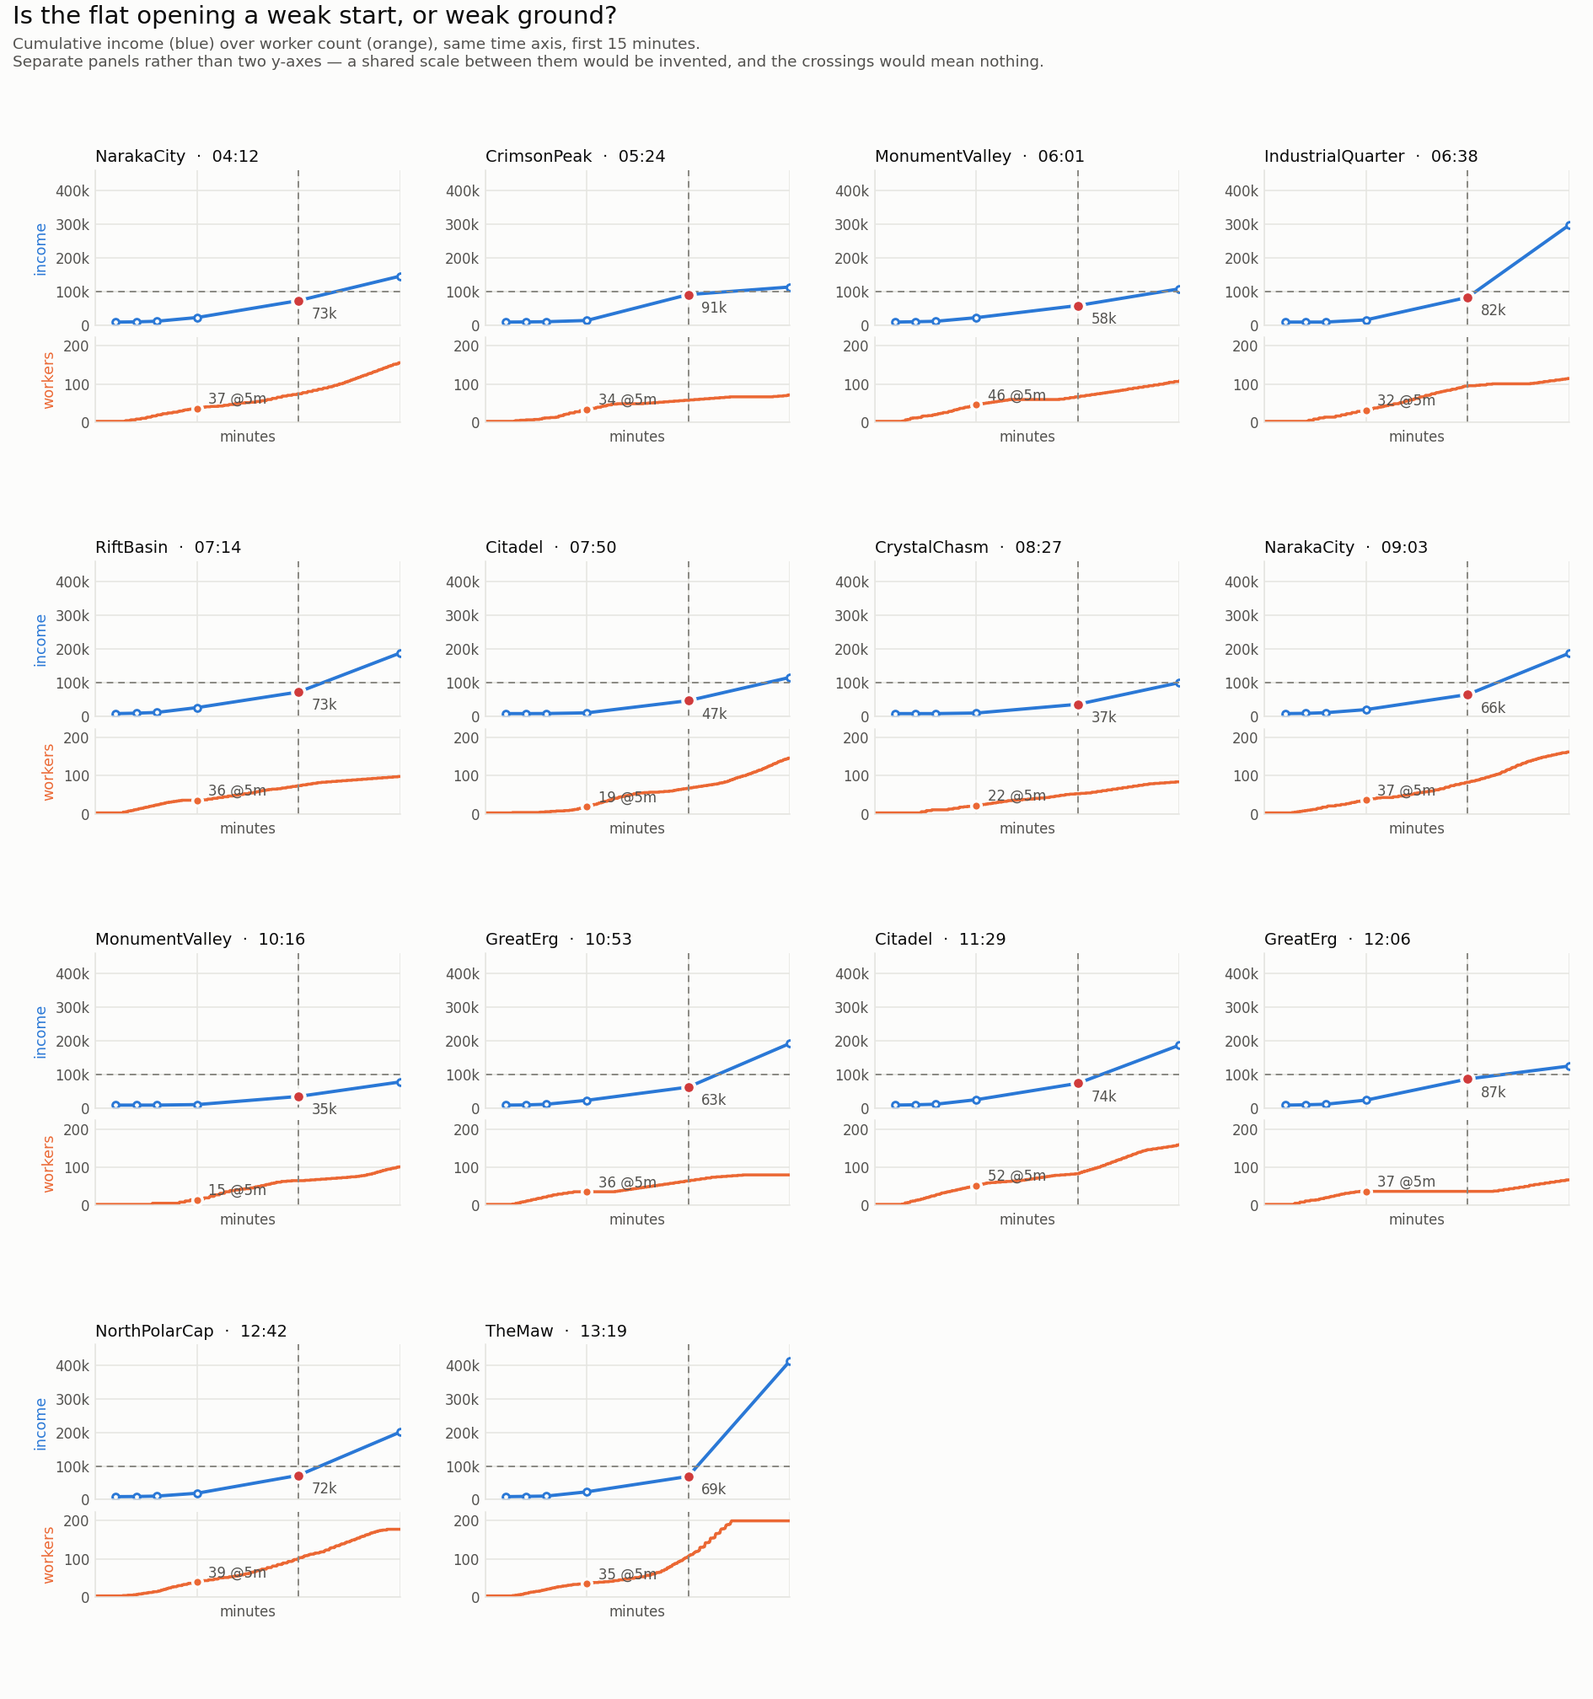
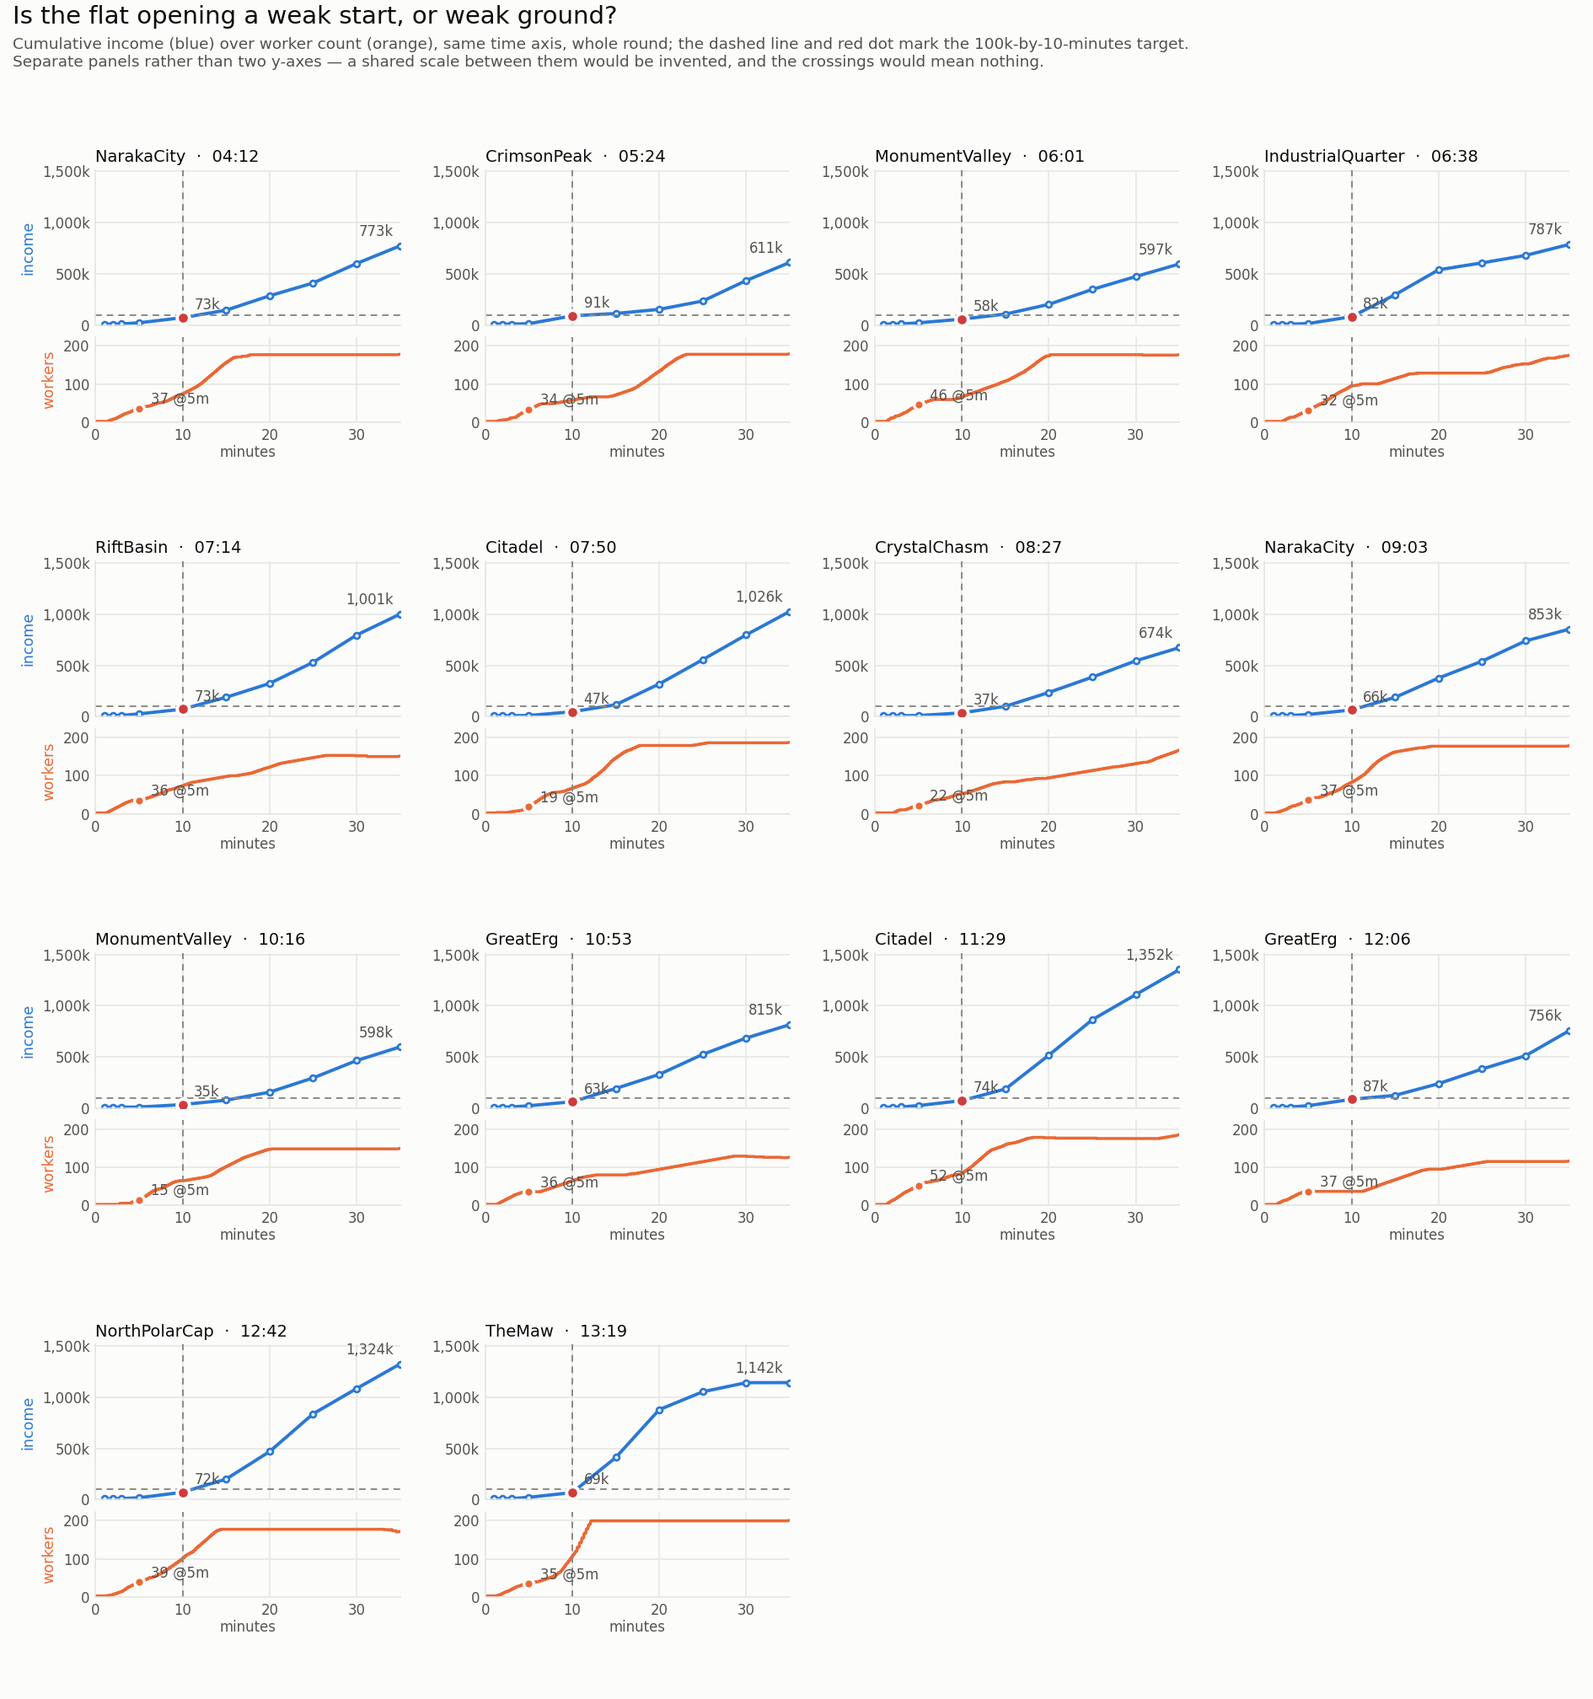
v0.20.1: income per worker decides whether to add workers or ground
DrMuck on IndustrialQuarter: "steep income rate from 10min to 20min, but
then the slope of the income rate was lower to the end of the game. I wonder
why." The per-second data answers it, and the answer changes what the
trajectory from v0.20.0 is allowed to do.

    min 10   1.56 income per worker per second
    min 15   2.92
    min 20   3.48   <- peak, 129 workers, 449/s
    min 25   3.12
    min 33   2.24        168 workers, 377/s

Workers GREW by forty across that decline and income still fell. It was
never a worker shortage: patches drained, so the same shrimps walked further
for every load, and the bank ran away from 26k to 190k because the economy
had nothing useful left to buy with them.

WORKERS ARE NOT THE OBJECTIVE — income is, and a worker only converts into
income while there is short-cycle ground for it to work. Yield shows both
ways that link breaks (drained patches, crowded patches) long before the
worker count shows anything, so it now decides WHICH lever the trajectory
pulls:

  - yield steady or rising  -> a worker still earns, so producers answer the
                               deficit, exactly as in v0.20.0
  - yield falling >20% off  -> the shortfall is ground, not producers. The
    its round peak            producer push is SUSPENDED and expansion widens
                              to at least twelve sites ahead instead.

That second branch also fixes a failure mode I built into v0.20.0 the day
[…]

diff --git a/Si_RTS_AI/Planning/WorkerPlan.cs b/Si_RTS_AI/Planning/WorkerPlan.cs
@@ -70,6 +70,48 @@ namespace Si_RTS_AI.Planning
         internal static bool  BehindSchedule;
         internal static float Duty = 0.5f;
 
+        // ---- Yield: what a worker is actually worth right now ---------------
+        //
+        // WORKERS ARE NOT THE OBJECTIVE. Income is, and a worker only converts
+        // into income while there is short-cycle ground for it to work. Two
+        // things break that link and they pull in opposite directions from a
+        // worker count: patches drain, so the same shrimps walk further for
+        // each load; and workers added past a patch's useful density crowd it.
+        //
+        // Measured on IndustrialQuarter 2026-08-05, income per worker per
+        // second:
+        //
+        //     min 10   1.56      min 20   3.48   <- peak
+        //     min 15   2.92      min 25   3.12
+        //                        min 33   2.24
+        //
+        // Workers went 129 -> 168 across that decline and income still FELL,
+        // from 449/s to 377/s. The economy was telling us its ground was
+        // draining ten minutes before the worker count noticed, and nothing
+        // was listening.
+        //
+        // So yield is the control signal that decides WHICH lever to pull:
+        // rising or steady, more workers pay and producers are the answer;
+        // falling, more workers are being poured into ground that cannot feed
+        // them and the answer is more ground. This also guards the trajectory
+        // above from its own failure mode — chasing a worker count onto
+        // crowded patches is exactly how you lower income while hitting target.
+        internal static float Yield, YieldPeak;
+        internal static bool  YieldFalling;
+
+        /// <summary>How far below its best yield may drift before the ground is
+        /// judged to be draining. Wide enough not to trip on the noise of a
+        /// depot finishing or a group relocating.</summary>
+        const float YIELD_DECAY_TRIGGER = 0.20f;
+
+        /// <summary>Before this the sample is meaningless — a handful of
+        /// starter shrimps on the richest patch on the map produce a yield the
+        /// rest of the round can never match, and every later reading would
+        /// look like decay against it.</summary>
+        const float YIELD_WARMUP_S = 300f;
+        const int   YIELD_MIN_WORKERS = 25;
+
+        static float _lastCum, _lastCumAt;
         static float _lastLogAt;
 
         internal static void ResetForNewRound()
@@ -77,6 +119,9 @@ namespace Si_RTS_AI.Planning
             Have = Target = ProducersNeeded = 0;
             BehindSchedule = false;
             Duty = 0.5f;
+            Yield = YieldPeak = 0f;
+            YieldFalling = false;
+            _lastCum = _lastCumAt = 0f;
             _lastLogAt = 0f;
         }
 
@@ -104,14 +149,38 @@ namespace Si_RTS_AI.Planning
         /// <summary>
         /// Called once per plan cycle with the live counts.
         /// </summary>
-        internal static void Update(float roundS, int workers, int producers)
+        internal static void Update(float roundS, int workers, int producers, int cumulativeIncome)
         {
             Have = workers;
             Target = TargetAt(roundS);
             BehindSchedule = Have < Target;
 
+            // Income over the plan interval, per worker. Derived from the
+            // cumulative total rather than the round average, which is far too
+            // slow to show a decline.
+            float now = Time.time;
+            if (_lastCumAt > 0f && now - _lastCumAt >= 1f && workers > 0)
+            {
+                float rate = (cumulativeIncome - _lastCum) / (now - _lastCumAt);
+                float sample = rate / workers;
+                if (sample >= 0f)
+                    Yield = Yield <= 0f ? sample : Yield * 0.8f + sample * 0.2f;
+            }
+            if (now - _lastCumAt >= 1f) { _lastCum = cumulativeIncome; _lastCumAt = now; }
+
+            if (roundS >= YIELD_WARMUP_S && Have >= YIELD_MIN_WORKERS)
+            {
+                if (Yield > YieldPeak) YieldPeak = Yield;
+                YieldFalling = YieldPeak > 0f && Yield < YieldPeak * (1f - YIELD_DECAY_TRIGGER);
+            }
+
             int deficit = Mathf.Max(0, Target - Have);
-            if (deficit <= 0)
+            // MORE WORKERS ONLY WHEN A WORKER STILL EARNS.
+            //
+            // Behind the curve AND yield falling means the shortfall is ground,
+            // not producers — adding shrimps there buys crowding. Expansion
+            // picks the deficit up instead; see the sites-ahead floor.
+            if (deficit <= 0 || YieldFalling)
             {
                 ProducersNeeded = 0;
             }
@@ -137,7 +206,9 @@ namespace Si_RTS_AI.Planning
                 MelonLogger.Msg($"[WORKERS] t={roundS:F0}s have={Have} target={Target} " +
                                 $"({(BehindSchedule ? "behind" : "on track")}) duty={Duty:F2} " +
                                 $"producers={producers} wants={ProducersNeeded} " +
-                                $"(reference {TargetAtTenMin} by 10min)");
+                                $"yield={Yield:F2}/peak {YieldPeak:F2}" +
+                                (YieldFalling ? " FALLING - take ground, not workers" : "") +
+                                $" (reference {TargetAtTenMin} by 10min)");
             }
         }
     }

diff --git a/eco_sim/plot_overnight_ramp.py b/eco_sim/plot_overnight_ramp.py
@@ -29,7 +29,11 @@ SINCE = sys.argv[1] if len(sys.argv) > 1 else "2026-08-04T20"
 SURFACE, INK, INK_2, INK_MUTED = "#fcfcfb", "#0b0b0b", "#52514e", "#8a8983"
 INCOME, WORKERS = "#2a78d6", "#eb6834"      # categorical slots 1 and 2
 GOOD, CRITICAL, GRID = "#0ca30c", "#d03b3b", "#e6e5e1"
-TARGET_T, TARGET_V, ZOOM_MIN = 600, 100_000, 15
+TARGET_T, TARGET_V = 600, 100_000
+# Full round. The benchmark checkpoints stop at 1800s, so the tail of the income
+# curve is drawn from the round's final cumulative total at elapsedS — which is
+# what makes the post-10-minute tilt visible at all.
+ZOOM_MIN = 35
 
 
 def stamp(name):
@@ -70,7 +74,8 @@ for b in bench:
     t0 = float(rows[0]["t_sec"])
     wt = [(float(r["t_sec"]) - t0) / 60 for r in rows]
     wv = [int(r["shrimps"]) for r in rows]
-    matched.append(dict(map=b["map"], ts=b["ts"], cps=b["checkpoints"], wt=wt, wv=wv))
+    matched.append(dict(map=b["map"], ts=b["ts"], cps=b["checkpoints"], wt=wt, wv=wv,
+                        endS=b["elapsedS"], endV=b["cumulIncome"]))
 
 if not matched:
     raise SystemExit("no rounds matched a cashflow CSV")
@@ -83,8 +88,7 @@ fig = plt.figure(figsize=(13.5, 3.6 * pair_rows), facecolor=SURFACE)
 outer = GridSpec(pair_rows, cols, figure=fig, hspace=0.55, wspace=0.28,
                  top=0.90, bottom=0.06, left=0.06, right=0.985)
 
-ymax_i = max(max(v for k, v in r["cps"].items() if int(k) <= ZOOM_MIN * 60)
-             for r in matched) / 1000
+ymax_i = max(max(list(r["cps"].values()) + [r["endV"]]) for r in matched) / 1000
 ymax_w = max(max(w for t, w in zip(r["wt"], r["wv"]) if t <= ZOOM_MIN) for r in matched)
 
 
@@ -100,11 +104,12 @@ def style(ax, last_row):
         ax.spines[s].set_visible(False)
     for s in ("left", "bottom"):
         ax.spines[s].set_color(GRID)
-    ax.tick_params(colors=INK_2, labelsize=8.5, length=0)
     ax.set_xlim(0, ZOOM_MIN)
-    ax.set_xticks([0, 5, 10, 15])
-    if not last_row:
-        ax.set_xticklabels([])
+    ax.set_xticks([0, 10, 20, 30])
+    # The two panels of a round SHARE their x axis, so set_xticklabels([]) on
+    # the upper one blanks the lower one as well — the locator is shared. Tick
+    # visibility is per-axes; labels are not.
+    ax.tick_params(colors=INK_2, labelsize=8.5, length=0, labelbottom=last_row)
 
 
 for i, r in enumerate(matched):
@@ -115,8 +120,13 @@ for i, r in enumerate(matched):
     ax_w = fig.add_subplot(inner[1], sharex=ax_i)
 
     cps = sorted((int(k), v) for k, v in r["cps"].items() if int(k) <= ZOOM_MIN * 60)
+    if r["endS"] > (cps[-1][0] if cps else 0):
+        cps.append((r["endS"], r["endV"]))     # the round's own final total
     ax_i.plot([t / 60 for t, _ in cps], [v / 1000 for _, v in cps], color=INCOME,
-              lw=2, marker="o", ms=4, markerfacecolor=SURFACE, markeredgewidth=1.5)
+              lw=2, marker="o", ms=3.5, markerfacecolor=SURFACE, markeredgewidth=1.4)
+    ax_i.annotate(f"{cps[-1][1] / 1000:,.0f}k", (cps[-1][0] / 60, cps[-1][1] / 1000),
+                  textcoords="offset points", xytext=(-4, 6), ha="right",
+                  color=INK_2, fontsize=8.5)
     ax_i.axhline(TARGET_V / 1000, color=INK_MUTED, lw=1, ls=(0, (4, 3)))
     ax_i.axvline(TARGET_T / 60, color=INK_MUTED, lw=1, ls=(0, (4, 3)))
     at10 = r["cps"].get("600", 0) / 1000
@@ -124,7 +134,7 @@ for i, r in enumerate(matched):
               color=GOOD if at10 >= 100 else CRITICAL,
               markeredgecolor=SURFACE, markeredgewidth=2)
     ax_i.annotate(f"{at10:,.0f}k", (10, at10), textcoords="offset points",
-                  xytext=(8, -11), color=INK_2, fontsize=8.5)
+                  xytext=(7, 5), color=INK_2, fontsize=8.5)
     ax_i.set_ylim(0, ymax_i * 1.12)
     ax_i.yaxis.set_major_formatter(FuncFormatter(k_fmt))
     ax_i.set_title(f"{r['map']}  ·  {r['ts'][11:16]}", color=INK, fontsize=10,
@@ -149,7 +159,8 @@ fig.suptitle("Is the flat opening a weak start, or weak ground?", color=INK,
              fontsize=15, x=0.008, ha="left", y=0.997)
 fig.text(0.008, 0.978,
          "Cumulative income (blue) over worker count (orange), same time axis, "
-         "first 15 minutes.\nSeparate panels rather than two y-axes — a shared "
+         "whole round; the dashed line and red dot mark the 100k-by-10-minutes "
+         "target.\nSeparate panels rather than two y-axes — a shared "
          "scale between them would be invented, and the crossings would mean nothing.",
          color=INK_2, fontsize=9.5, ha="left", va="top")
 out = os.path.join(OUT_DIR, "income_vs_workers.png")

diff --git a/Si_RTS_AI/Planning/EcoPlanner.cs b/Si_RTS_AI/Planning/EcoPlanner.cs
@@ -1320,7 +1320,10 @@ namespace Si_RTS_AI.Planning
                 int producing = 0;
                 for (int i = 0; i < state.cysts.Count; i++)
                     if (state.cysts[i].finished && state.cysts[i].pos != state.nestPos) producing++;
-                WorkerPlan.Update(Perception.MapLayers.LayerReplay.CurrentRoundTime, state.totalShrimps, producing);
+                int cumIncome = 0;
+                try { cumIncome = Perception.EcoRateSampler.GetCumulativeIncome(team); } catch { }
+                WorkerPlan.Update(Perception.MapLayers.LayerReplay.CurrentRoundTime,
+                                  state.totalShrimps, producing, cumIncome);
             }
             catch { }
             try { MapProfile.MaybeBuild(team, Perception.MapLayers.GridWorld.CurrentMapName); } catch { }
@@ -2086,6 +2089,16 @@ namespace Si_RTS_AI.Planning
                     // roster with nothing to harvest is the pile-up this whole
                     // line of work started from.
                     if (WorkerPlan.BehindSchedule) sitesAhead = Mathf.Max(sitesAhead, 8);
+                    // FALLING YIELD IS A CALL FOR GROUND.
+                    //
+                    // Income per worker peaking and then sliding means the
+                    // patches being worked are draining or crowded — the
+                    // economy needs somewhere new to put the shrimps it already
+                    // has, and it needs it before the worker count shows any
+                    // sign of a problem. IndustrialQuarter lost a third of its
+                    // per-worker income over the last thirteen minutes of a
+                    // round while adding forty workers.
+                    if (WorkerPlan.YieldFalling) sitesAhead = Mathf.Max(sitesAhead, 12);
                     int sitesTouched = 0, lastSite = -1;
 
                     // ONE FRONT PER BRANCH.

diff --git a/Si_RTS_AI/Si_RTS_AI.cs b/Si_RTS_AI/Si_RTS_AI.cs
@@ -8,7 +8,7 @@ using System.Collections.Generic;
 using System.IO;
 using System.Text;
 
-[assembly: MelonInfo(typeof(Si_RTS_AI.Si_RTS_AI), "Si_RTS_AI", "0.20.0-worker-trajectory", "DrMuck")]
+[assembly: MelonInfo(typeof(Si_RTS_AI.Si_RTS_AI), "Si_RTS_AI", "0.20.1-yield", "DrMuck")]
 [assembly: MelonGame("Bohemia Interactive", "Silica")]
 
 namespace Si_RTS_AI

diff --git a/USER_RULES.md b/USER_RULES.md
@@ -116,6 +116,7 @@ discounted value into full value.
 | 6.5 | **Phase 2 is a blueprint, not a series of choices** (DrMuck, 2026-08-04). Greedy per-tick branching works but has no global picture, so around 18min it produces "noding madness" — every frontier point claiming its own nearest patch forever. Instead: **scan** the discovered biotics, **plan** the whole branched network as the cheapest way to cover them, **build to that plan**, and **refresh** it at intervals against what already stands. | implemented v0.15.0 — `Planning/Blueprint.cs` |
 | 6.6 | The plan is judged on **cost and speed**. Cost is what it actually pays (hops × Node + Bio Cache), so a second patch behind the first pays only for the hops past it and branches merge instead of running side by side. Speed is the seconds before a site earns — chain build time plus the walk out along the network — which is what stops the plan running one line to 1,700m before touching the other side of the base. Both come from live ConstructionData. | implemented v0.15.0 |
 | 6.7 | **Cyst placement is optimised separately** from the network. Producers are a shrimp question: is anything already covering this ground, is there unit-cap room to produce at all, and would migration staff the site without paying 1,500. The observed failure was a row of Lessers through the middle of the map unable to produce while the shrimps were all east. The eagerness is the strategy dial — `[Si_RTS_AI_Blueprint]` MaxCystsPerPlan / CystStaffedEnough / CystRelocationSpacings. | implemented v0.15.0 |
+| 6.14 | **Income per worker is the signal that decides which lever to pull** (DrMuck, 2026-08-05, on IndustrialQuarter: "steep income rate from 10min to 20min, but then the slope was lower to the end — I wonder why"). Measured that round: yield peaked at 3.48/worker/s at minute 20 and fell to 2.24 by minute 33 while workers GREW 129 to 168 and income fell 449/s to 377/s. Patches drain, so the same shrimps walk further per load; and workers past a patch's useful density crowd it. Both show up in yield long before they show up in the worker count. Rising or steady yield means more workers pay, so producers are the answer; falling yield means the answer is more GROUND, and producers are suspended so the trajectory cannot pour shrimps onto patches that cannot feed them. | implemented v0.20.1 |
 | 6.12 | **The economy aims at a worker trajectory: ~100 shrimps by 10 minutes** (DrMuck, 2026-08-05, from the overnight soak). Measured across 14 rounds: workers-at-10min correlates 0.80 with income-at-25min, Cysts-at-10min 0.79. The runaway round (TheMaw, 1.05M by 25min) had 20 Cysts and 106 workers at ten minutes; the stalled ones had 3-5 Cysts and 37-58 workers, one of them frozen at 37 workers from 5min to 10min. Being behind the curve now raises producer count, suspends the sustainable-capacity ceiling, and widens expansion — because a worker needs somewhere to work as much as it needs a producer to be born in. A reference, not a quota: it gets out of the way once the curve is met, and after that producers go to the outer sites. | implemented v0.20.0 — `Planning/WorkerPlan.cs`, `WorkersByTenMinutes` |
 | 6.13 | **Production stalls are the expensive failure, not overproduction.** Every worker ceiling was added against a mid-game pile-up and each is right in the case that produced it, but together they had no idea what they were aiming at — so an economy could sit at 37 workers for five minutes with tens of thousands unspent and nothing in the code considered that wrong. The same-map evidence: two Citadel rounds with identical opener plans and producer counts, one pinned at 10-270 cash for four minutes (19 workers at 5min, 47k at 10min) and one that never was (52 workers at 5min, 74k). | implemented v0.20.0 |
 | 6.10 | **Benchmark: ~100,000 earned by 10 minutes** (DrMuck, 2026-08-05). Reference point for the whole eco stack. Measured on NarakaCity the same day: 94,895 cumulative at 13m14s — so roughly 30% short of the target pace, and the gap is production rather than ground (70 shrimps at that point, 22 Bio Caches, 8 Cysts, 53,000 cash unspent). | open |
